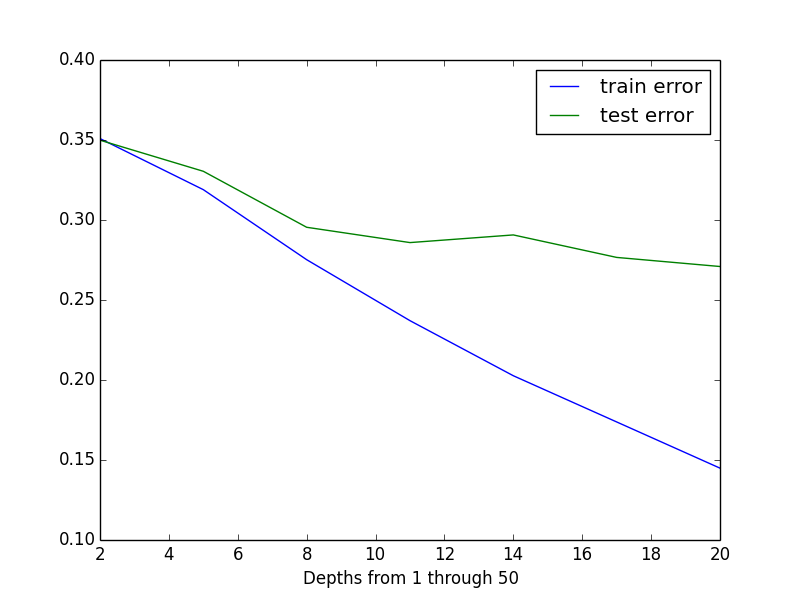
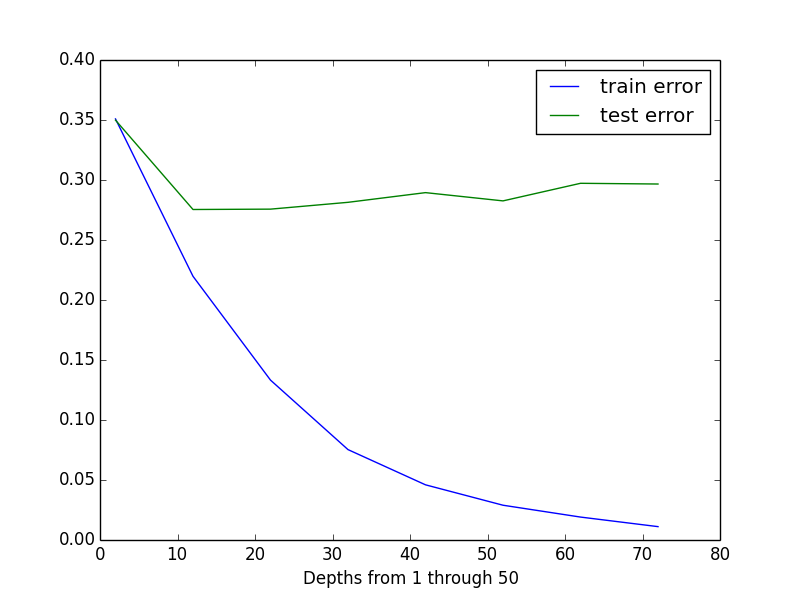
figure_1.png

diff --git a/src/yelp.py b/src/yelp.py
@@ -154,7 +154,7 @@ def treeDepth(Xtrain,Xtest):
     testErrorList=[]
     depthlist=[]
     #maxDepth=None
-    for depth in range(1,20,3):
+    for depth in range(1,80,10):
         starttime=time.time()
         Tree=tree.DecisionTreeClassifier(max_depth=depth+1)
         fitTree=Tree.fit(Xtrain[:,:-1],Xtrain[:,-1])
